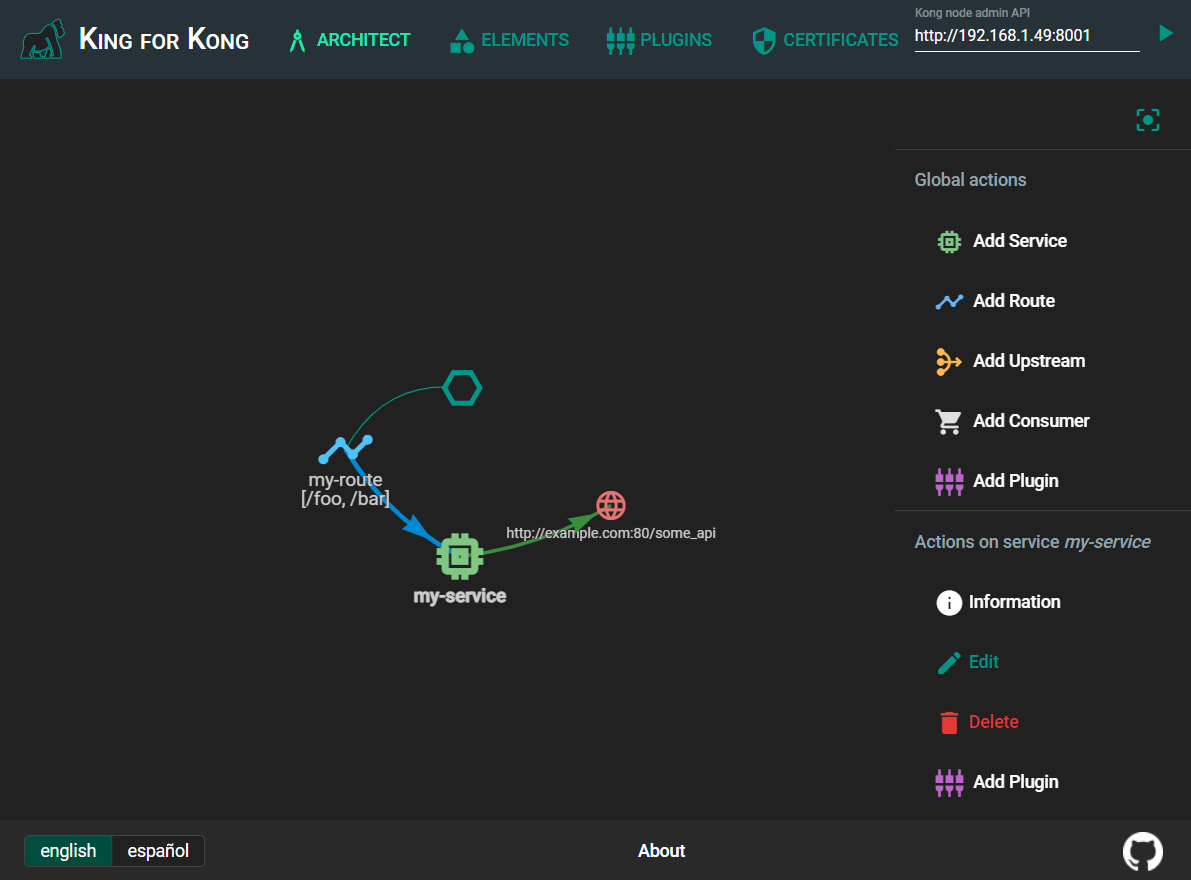
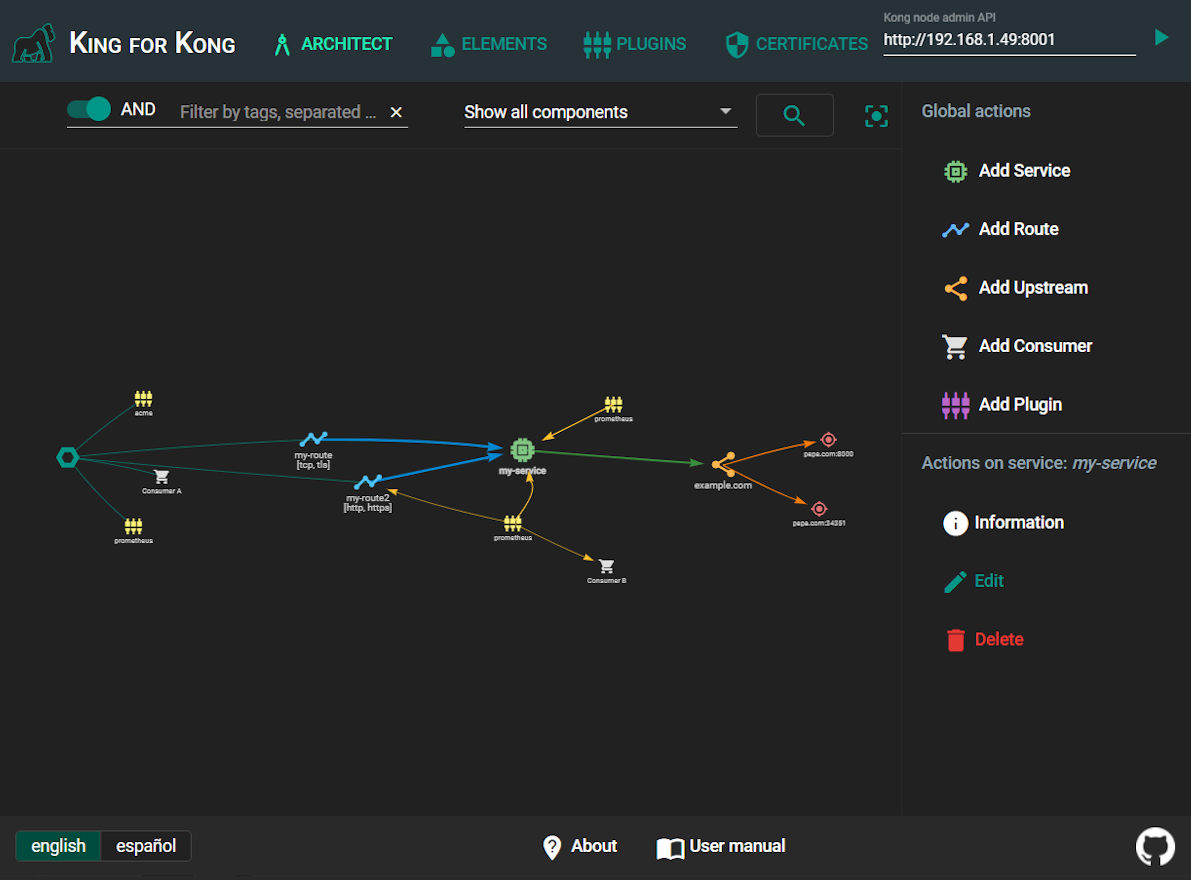
README.md

diff --git a/README.md b/README.md
@@ -1,11 +1,68 @@
-# King for Kong API Gateway
+## King for [Kong API Gateway](https://docs.konghq.com)
 
-Administration UI for Kong API Gateway.
+Complete administration UI for Kong API Gateway.
 
-https://ligreman.github.io/king
+[![King architect](https://raw.githubusercontent.com/ligreman/king/main/docs/images/cap.png)](https://ligreman.github.io/king)
+*https://ligreman.github.io/king*
+
+_King is not official, and does not have any affiliation with [Kong](https://www.konghq.com)._
+
+## Summary
+
+- [**Features**](#features)
+- [**Compatibility**](#compatibility)
+- [**Prerequisites**](#prerequisites)
+- [**Installation**](#installation)
+- [**Development**](#development)
+- [**Author**](#author)
+
+## Features
+
+* Manage multiple Kong Nodes.
+* Manage all Kong API Objects with an interactive graph interface, or a more table-like traditional one.
+* Helpful and intuitive forms.
+* Monitor nodes using health checks.
+
+## Compatibility
+
+King for Kong has been developed to be compatible with Kong API Gateway 2.3.x version. It may be compatible backwards, but it has not been tested.
+
+## Prerequisites
+
+- A [Kong API Gateway](https://docs.konghq.com) instance running
+- A web server ([Apache](https://httpd.apache.org/download.cgi), [Nginx](https://nginx.org/en/download.html)...)
+
+## Installation
+
+Download the latest `.zip` [release package](https://github.com/ligreman/king/releases), and unzip it into a web application
+server ([Apache](https://httpd.apache.org/download.cgi), [Nginx](https://nginx.org/en/download.html)...).
+
+## Development
+
+### Prepare environment
+
+Clone the repository to your local machine and install npm dependencies:
+
+```
+npm install
+```
+
+### Running
+
+```
+npm start
+```
+
+King for Kong will be available at `http://localhost:4200`
 
 ### How to upgrade
+
+To upgrade Angular and Angular Material libraries, use the `ng` tool included with Angular:
 
 `ng update @angular/core @angular/cli`
 
 `ng update @angular/material`
+
+## Author
+
+[Ligreman (LigreSoftware)](https://ligreman.com)
